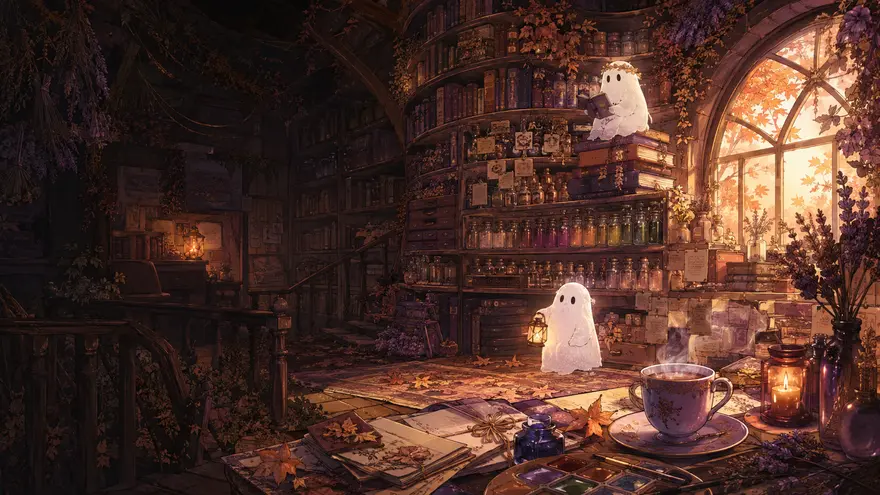
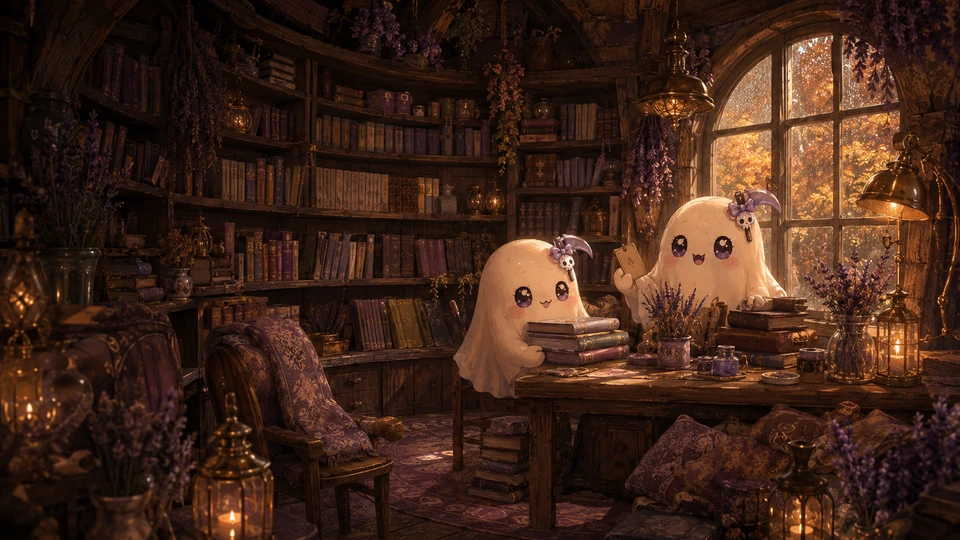
Finish original illustrated room artwork across every Haven page

diff --git a/docs/25_HIGH_RESOLUTION_GHOSTIE_VISUAL_REBUILD.md b/docs/25_HIGH_RESOLUTION_GHOSTIE_VISUAL_REBUILD.md
@@ -33,9 +33,9 @@ The existing 19 semantic component variants remain supported. Closely related se
 
 ## Delivered page environments
 
-Home, Meet Nari, Haven, and Streams each receive a completely independent `1672 × 941` native-resolution environmental composition. The homepage remains one physical room at sunset, midnight, and daybreak. Corresponding `960 × 540` postcards preserve the entire composition, while the mandatory `1200 × 630` social previews retain the full painting over a subtle extended background instead of cropping Nari out of frame.
+Home, Meet Nari, Haven, Streams, Nail Studio, Resources, Work With Nari, and Stories each receive a completely independent `1672 × 941` native-resolution environmental composition. The homepage remains one physical room at sunset, midnight, and daybreak. All eight corresponding `960 × 540` postcards preserve their entire compositions, while all sixteen mandatory WebP/JPEG `1200 × 630` social previews retain the full paintings over subtle extended backgrounds instead of cropping Nari out of frame.
 
-Nail Studio, Resources, Work, and Stories retain their existing separately authored chapter paintings. The original owner-supplied model, original emotes, and all 27 supplied Prinny designs remain untouched.
+Nail Studio remains explicitly illustrated environmental support artwork, never counterfeit portfolio photography. Resources uses only original scythe-hairpin Ghostie librarians instead of inventing a replacement Nari. The original owner-supplied model, original emotes, and all 27 supplied Prinny designs remain untouched.
 
 ## Rendering and verification contract
 
